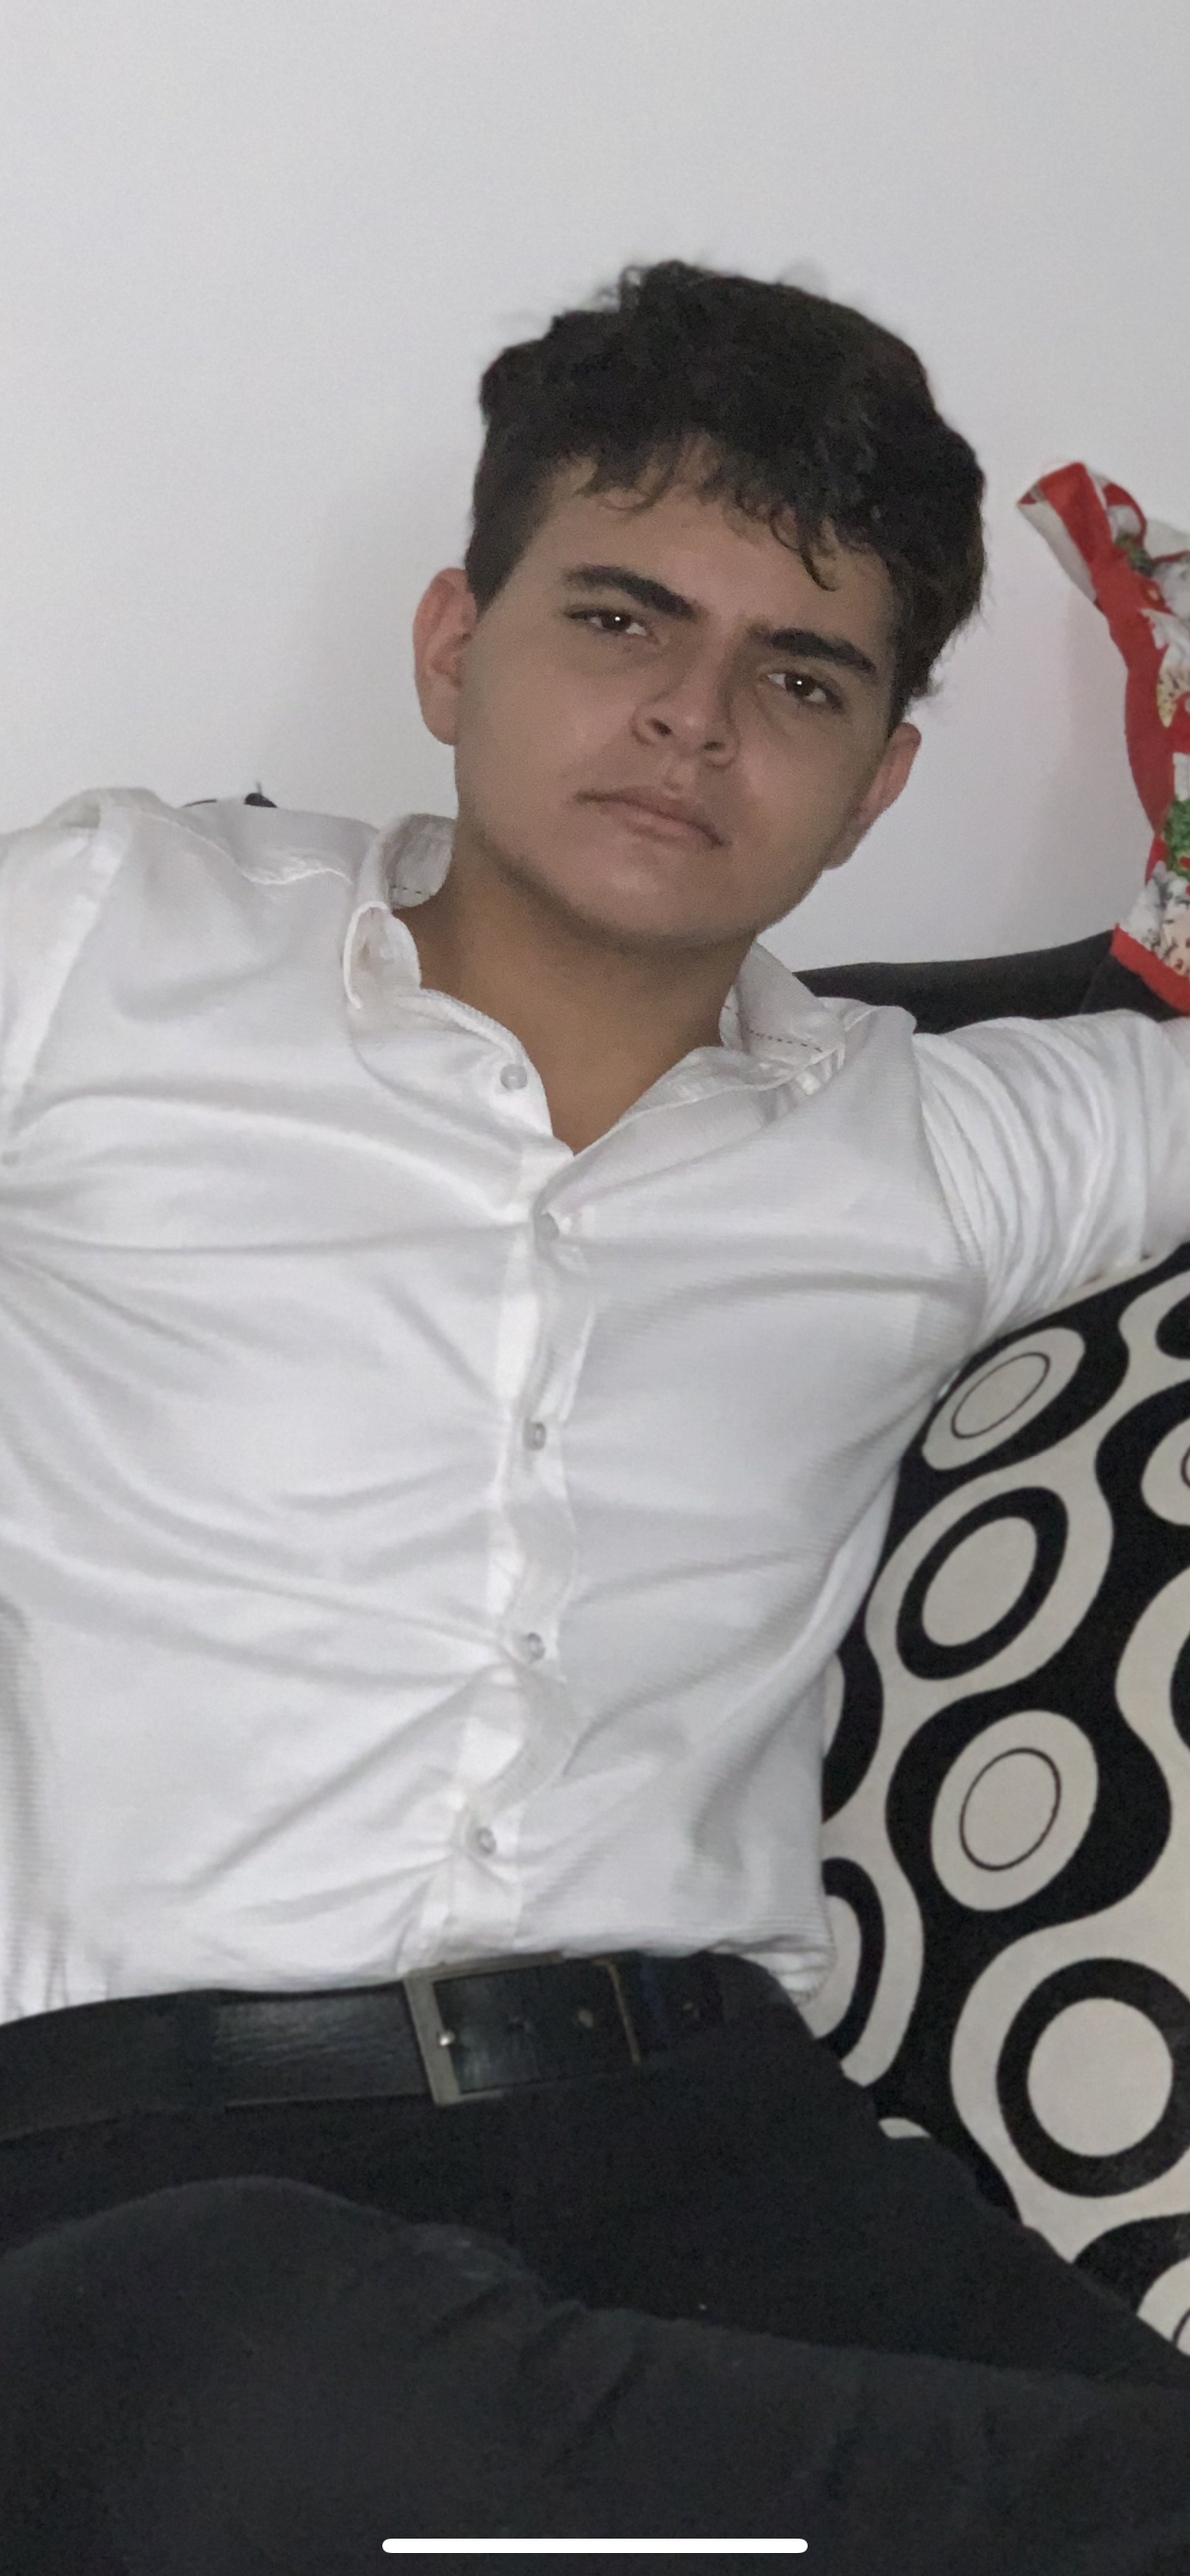
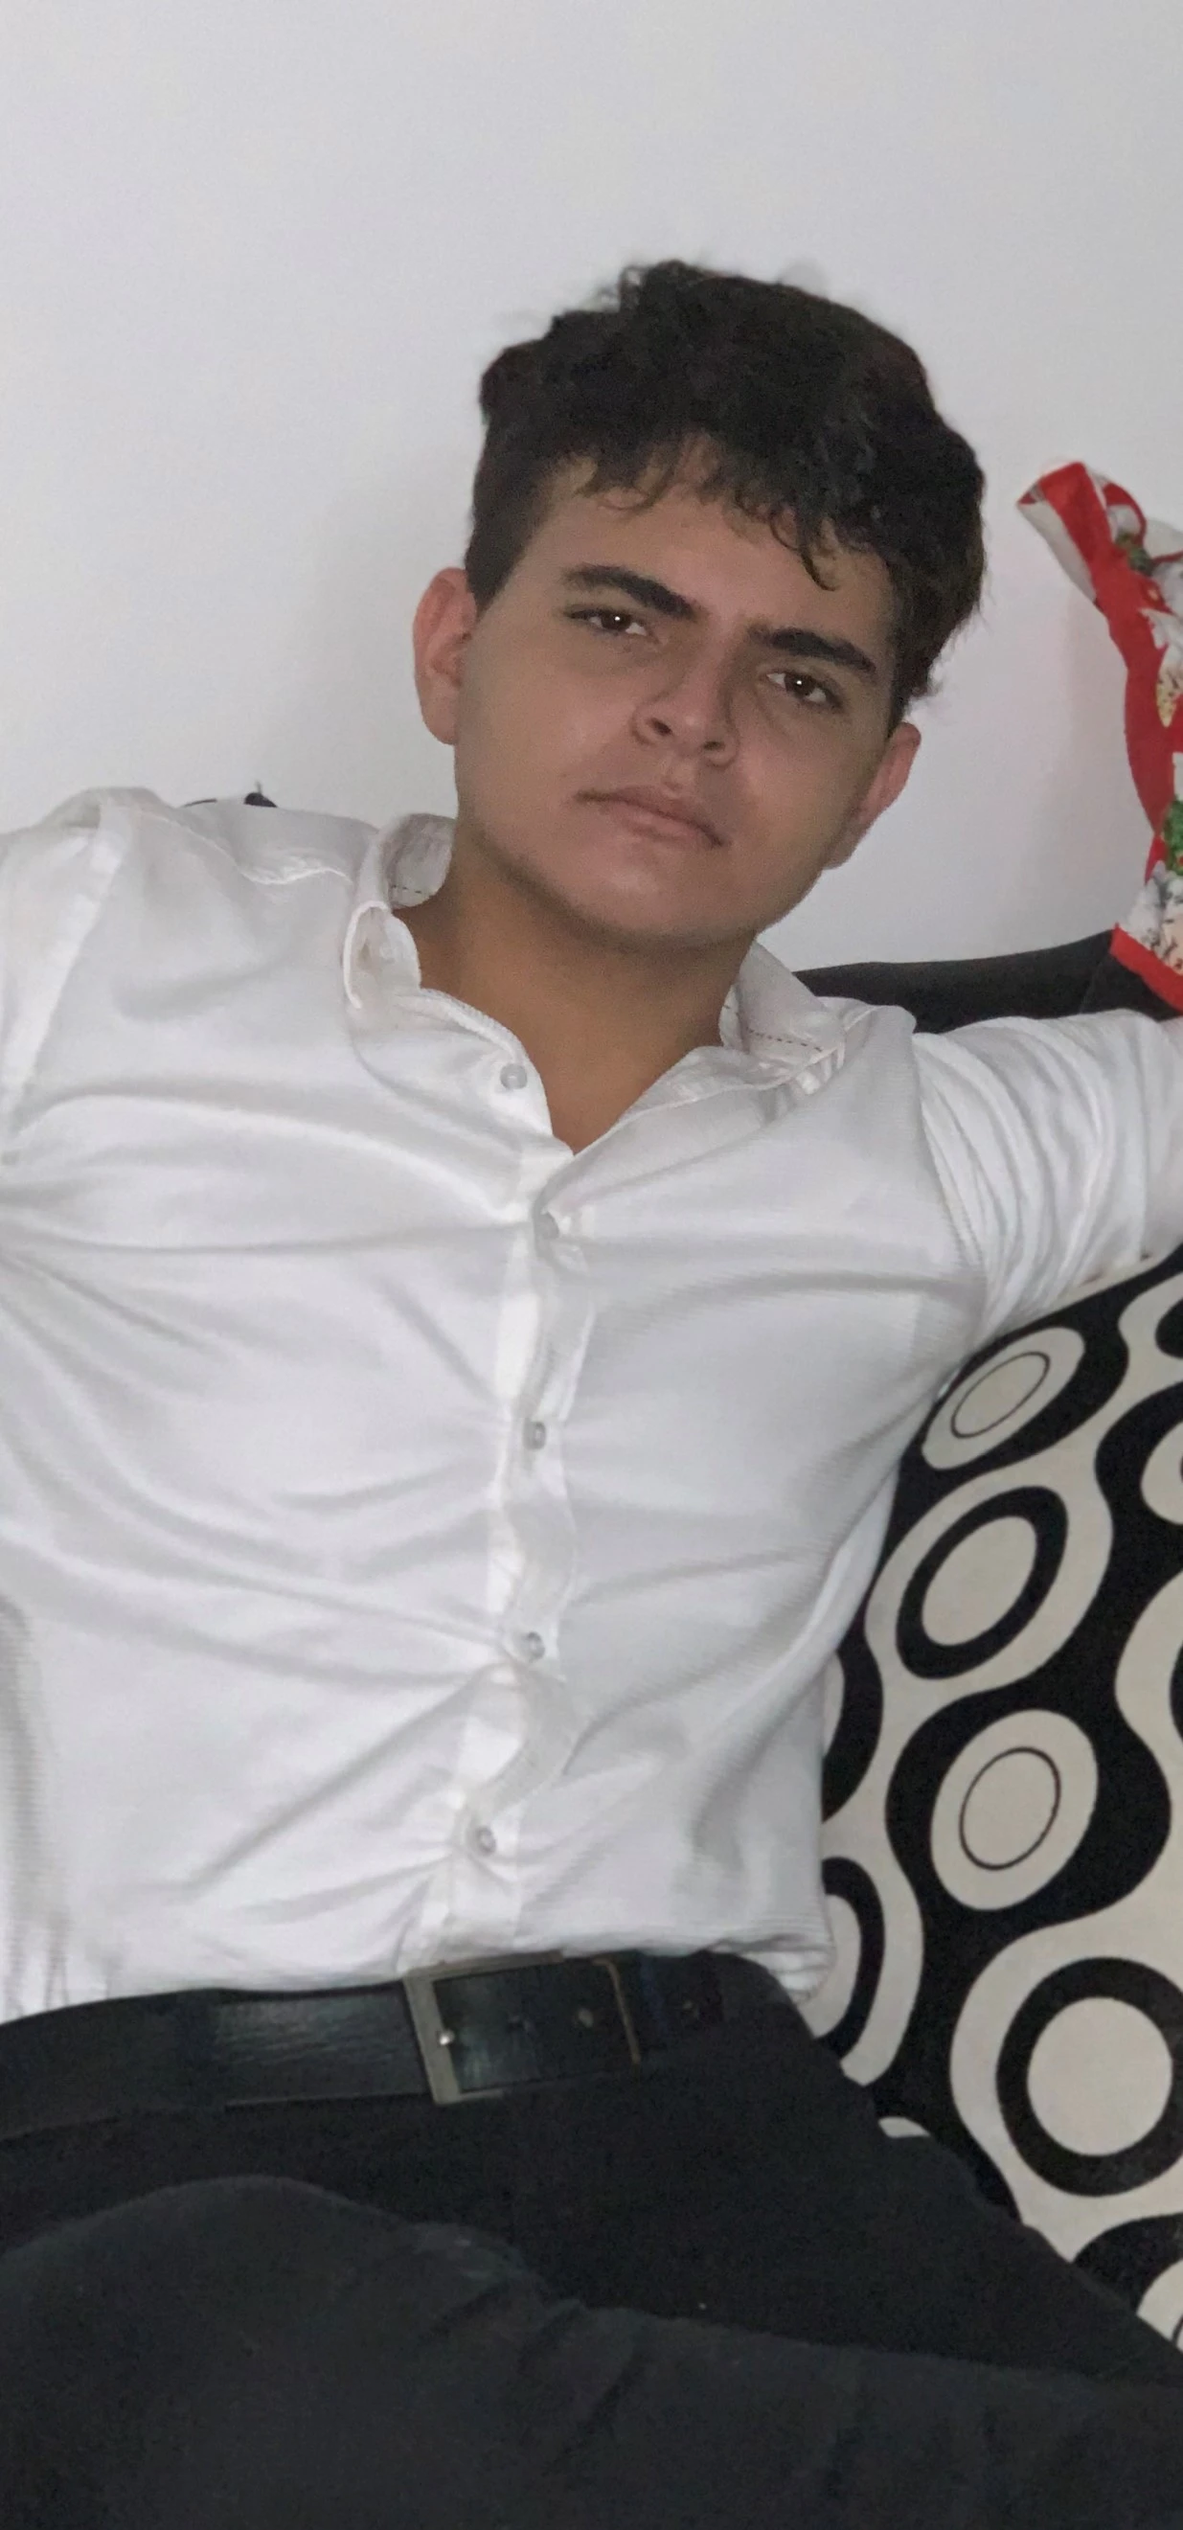
add new profile photo

diff --git a/index.html b/index.html
@@ -41,7 +41,6 @@
                     <li class="nav__item">
                         <a href="#contact" class="nav__link nav__link-button">Contactame.</a>
                     </li>
-                    
                 </ul>
 
                 <!-- boton de cerrar -->
@@ -96,15 +95,17 @@
 
                 <div class="home__info">
                     <p class="home__description">
-                        <b>Frontend Developer</b> Busco realizar tus sueños a  < codigo/> ,llevo tus proyectos, emprendimientos e ideales a la web apasionado por crecer  y aprender en este camino busco {Maximizar experiencia cliente usuario};
+                        <b>Frontend Developer</b> Busco realizar tus sueños a  < codigo/> ,llevo tus proyectos, emprendimientos e ideales a la web; apasionado por crecer y aprender en este camino, busco {Maximizar experiencia cliente usuario};
                     </p>
 
-                    <a href="#about" class="home_scroll"></a>
+                    
                     <div class="home__scroll-box">
+                        <a href="#about" class="home_scroll"></a>
                         <i class="ri-arrow-down-s-line"></i>
+                        <span class="home__scroll-text">Bajar</span>
                     </div>
 
-                    <span class="home__scroll-text">Bajar</span>
+                    
 
                 </div>
             </div>
@@ -133,7 +134,7 @@
                 <div class="about__info">
                     <p class="about__description">
                         Apasionado por crear <b>Paginas Webs</b> usando las nuevas tecnologias,
-                        soy estudiado de la tan famosa plataforma<a href="https://platzi.com"> <b> PLATZI</b></a> tengo mas de 14 Cursos Completados en ambito a la programacion, estare encantado de implementarlos y crecer con los proyectos de mi proximo trabajo o cliente.
+                        soy estudiado de la tan famosa plataforma<a href="https://platzi.com/p/osvalodjesus/"> <b> PLATZI</b></a> tengo mas de 14 Cursos Completados en ambito a la programacion, estare encantado de implementarlos y crecer con los proyectos de mi proximo trabajo o cliente.
                     </p>
 
                     <ul class="about__list">
@@ -146,6 +147,9 @@
                     <div class="about__buttons">
                         <a href="#contact" class="button">
                             <i class="ri-send-plane-line"></i> Contactame
+                        </a>
+                        <a href="https://platzi.com/p/osvalodjesus/" class="button">
+                            <i class="ri-send-plane-line"></i> Mis Diplomas
                         </a>
 
                         <a href="https://www.linkedin.com/in/osvaldo-de-jesus-pacheco-sanabria-9bab0b25b/" target="_blank" class="button__ghost">

diff --git a/assets/js/main.js b/assets/js/main.js
@@ -139,5 +139,6 @@ const sr = ScrollReveal({
 
 sr.reveal(`.home__perfil, .about__image, .contact__mail`, {origin: 'right'})
 sr.reveal(`.home__name, .home__info
-           .about__container, .section__title-1, .about__info`, {origin: 'left'})
+           .about__container, .section__title-1, .about__info,
+           .contact__social, .contact__data`, {origin: 'left'})
 sr.reveal(`.services__card, .projects__card`, {interval: 100})
